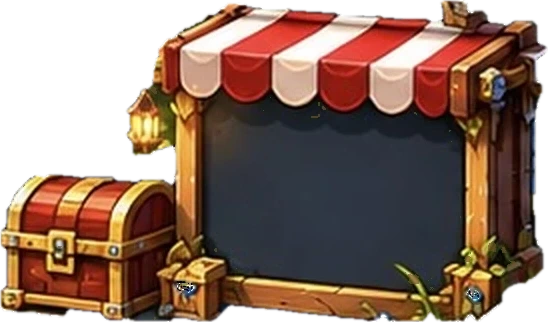
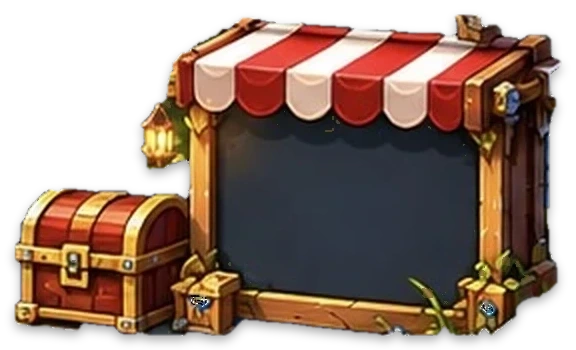
fix(siege): the map's stall no longer flickers on iPhone (shadow baked in)

diff --git a/bug-hunter/src/siege/siege.css b/bug-hunter/src/siege/siege.css
@@ -745,3 +745,9 @@
 @media (max-height:440px){.sg-map-go{width:min(290px,34%)}}
 .sg-map-go{width:min(330px,38%)}.siege-root.is-cartoon .sg-prep .sg-map-go .sg-play{min-width:60%}
 @media (max-height:440px){.sg-map-go{width:min(250px,30%)}}
+/* v1.15.35 — The stall has its shadow in its picture: a CSS drop-shadow on it made Safari on iPhone flicker a box
+   behind it while the current map spot pulsed. */
+.siege-root.is-cartoon .sg-prep .sg-map-shop,.siege-root.is-cartoon .sg-prep .sg-map-shop:hover:not(:disabled),.siege-root.is-cartoon .sg-prep .sg-map-shop:active{filter:none;aspect-ratio:576/350}
+@media (hover:hover){.siege-root.is-cartoon .sg-prep .sg-map-shop:hover:not(:disabled){filter:brightness(1.08)}}
+.sg-map-shop span{top:33%}
+.siege-root.is-cartoon .sg-prep .sg-map .sg-spot.is-on{will-change:transform}

diff --git a/bug-hunter/src/version.ts b/bug-hunter/src/version.ts
@@ -4,7 +4,7 @@
  * This folder migration preserves the public game URL, saves and gameplay.
  * The build stamp changes automatically on each deployment.
  */
-export const GAME_VERSION = '1.15.34';
+export const GAME_VERSION = '1.15.35';
 
 declare const __GAME_BUILD__: { commit: string; built: string };
 /** Build stamp from the shared Vite configuration; safe outside Vite too. */

diff --git a/bug-hunter/CHANGELOG.md b/bug-hunter/CHANGELOG.md
@@ -4,6 +4,11 @@
 
 This changelog tracks game-version changes starting with v1.12.55. Earlier releases are not reconstructed here.
 
+## 1.15.35 - 2026-10-27
+
+### Fixed
+- Siege Cartoon's map on iPhone: the Shop stall no longer flickers (a box flashing behind it while the current spot pulsed); its shadow is part of its picture now.
+
 ## 1.15.34 - 2026-10-27
 
 ### Changed
